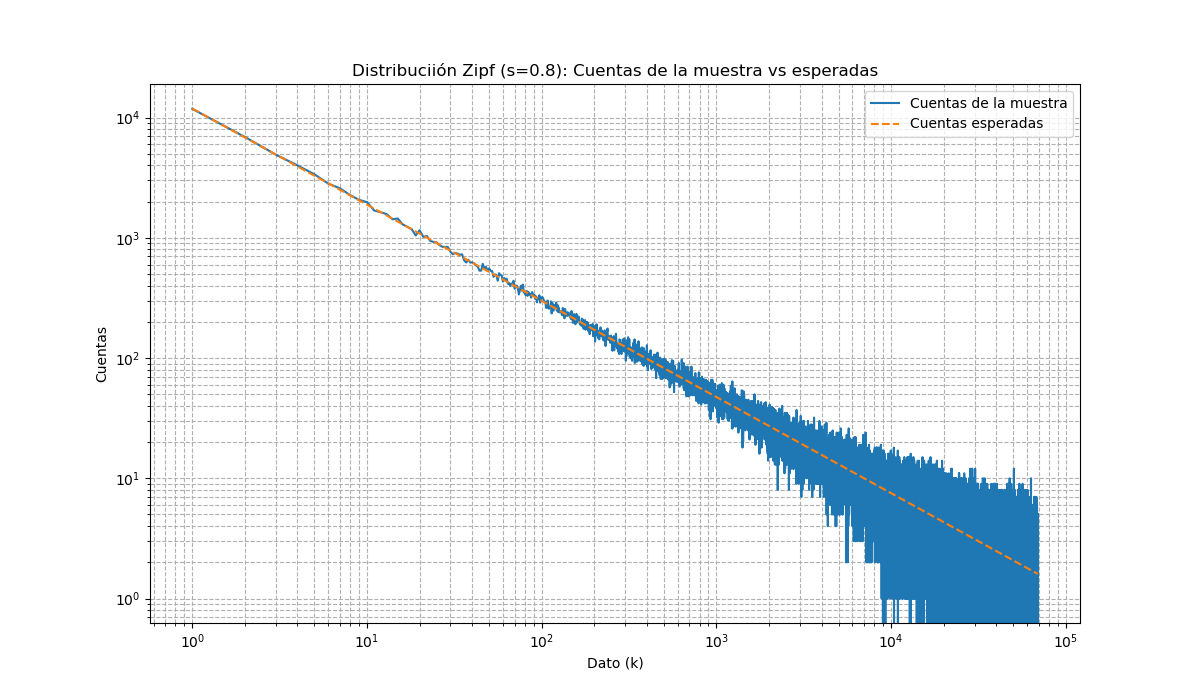
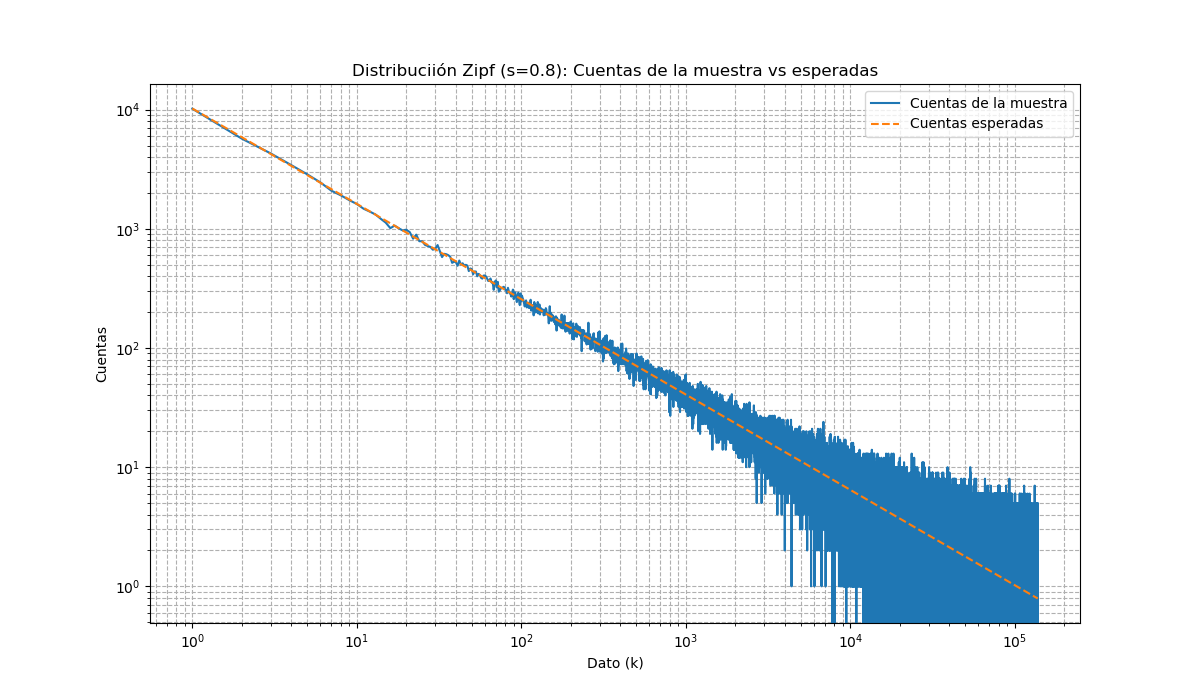
Add files via upload

diff --git a/DemoPython/app.py b/DemoPython/app.py
@@ -3,22 +3,37 @@ import psycopg2
 import redis
 
 # Implementar la función de Flask
+print("Starting Flask app...")  # Debugging
 app = Flask(__name__)
 
-# Conexión de Redis
-redis_client = redis.Redis(
-    host='localhost',
-    port=12000,
-    decode_responses=True 
-)
-# Conexión de PostgreSQL
-post_client = psycopg2.connect(
-    host="localhost",
-    database="redis",
-    user="redis_user",
-    password="post123",
-    port = 5432
-)
+def redisCon():
+    try:
+        # Conexión de Redis
+        redis_client = redis.Redis(
+            host='localhost',
+            port=12000,
+            decode_responses=True 
+        )
+        print("exito: redis")
+        return redis_client
+    except:
+        print("error: redis")
+        return None
+def psCon():
+    try:
+        # Conexión de PostgreSQL
+        post_client = psycopg2.connect(
+            host="localhost",
+            database="redis",
+            user="redis_user",
+            password="post123",
+            port = 5432
+        )
+        print("exito: postgres")
+        return post_client
+    except:
+        print("error: postgres")
+        return None
 
 # Consultar datos de PostgreSQL
 def get_data_from_postgres(query):
@@ -32,7 +47,7 @@ def setRedis(key, data):
     # cambiar TTL
     with redis_client.pipeline() as pipe:
         pipe.hset(key, mapping={"name": data[1],"value1": data[2],"value2": data[3],"value3": data[4],"value4": data[5],"value5": data[6]})
-        pipe.expire(key, 344) #comentar para 100% y pruebas LRU
+        #pipe.expire(key, 344) #comentar para 100% y pruebas LRU
         pipe.execute()
     
 
@@ -57,7 +72,7 @@ def get_data(key):
     cached_data = redis_client.hgetall(key)
     
     if cached_data:
-        updateTTL(key) # descomentar esta línea para pruebas de caché < 100%, comentar para 100% y prueba LRU
+        #updateTTL(key) # descomentar esta línea para pruebas de caché < 100%, comentar para 100% y prueba LRU
         # Source: 0 - está en el caché
         return jsonify({"source": 0, "id": key, "data": cached_data})
     
@@ -75,6 +90,9 @@ def get_data(key):
     else:
         return jsonify({"error": "Data not found"}), 404
 
-# Running the Flask app
+print("Running Flask...")
+redis_client = redisCon()
+post_client = psCon()
 if __name__ == '__main__':
     app.run(debug=True)
+

diff --git a/DemoPython/client.py b/DemoPython/client.py
@@ -7,7 +7,7 @@ import matplotlib.pyplot as plt
 import time
 
 
-BASE_URL = "http://127.0.0.1:5000"
+BASE_URL = "http://127.0.0.1:5001"
 
 
 
@@ -51,7 +51,8 @@ def aciertos(N, s, sample_size):
             cache_hits += 1
         hit_rate = cache_hits/i # Actualizar tasa de aciertos
         end_time = time.time()
-        print(f'Consulta: {i}   |', f'Hit rate: {hit_rate}    |', f'Tiempo ejecución: {end_time - start_time}')
+        if i%100 == 0:
+            print(f'Consulta: {i}   |', f'Hit rate: {hit_rate}    |', f'Tiempo ejecución: {end_time - start_time}')
         rates.append(hit_rate)
         i += 1
     
@@ -92,7 +93,7 @@ def llenar_cache():
 if __name__ == "__main__":
     #llenar_cache() # Descomentar para hacer pruebas al caché
     # Tiempo característico: 
-    N =  69_000      # Tamaño de la base de datos principal (proporcional al caché)
+    N =  138_000      # Tamaño de la base de datos principal (proporcional al caché)
     s = 0.8           # Parámetro de la distribución Zipf entre (0.8, 1.1)
     sample_size = 500_000  # Tamaño de la muestra que se va a generar, 200,000 para 100% y 80% 
     graficar_hitrates(N, s, sample_size)

diff --git a/DemoPython/prueba.py b/DemoPython/prueba.py
@@ -1,0 +1,8 @@
+from flask import Flask
+
+print("Starting Flask app...")  # Debugging
+app = Flask(__name__)
+
+print("Running Flask...")
+if __name__ == '__main__':
+    app.run(debug=True)
